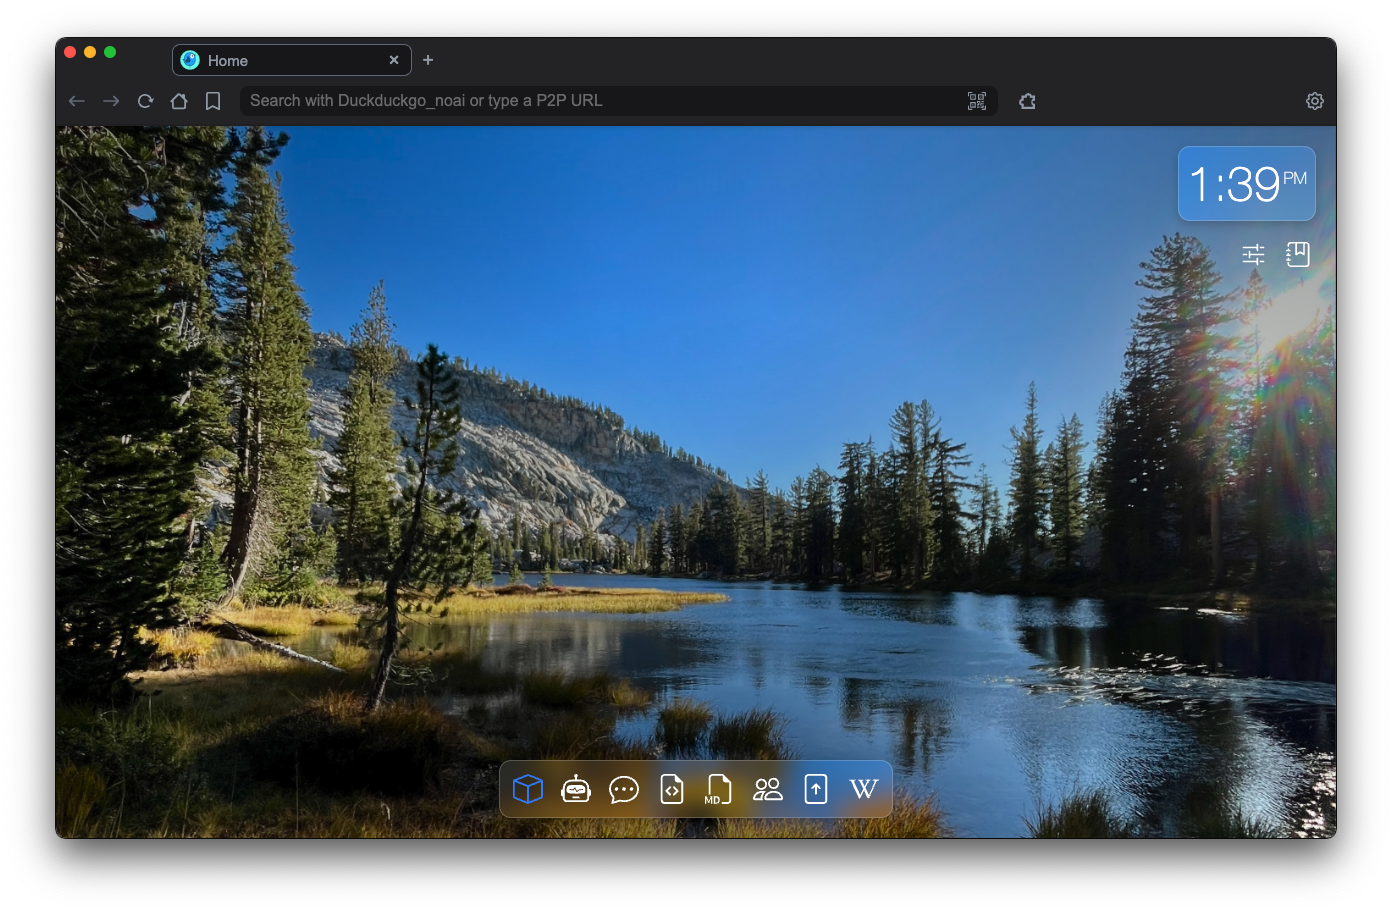
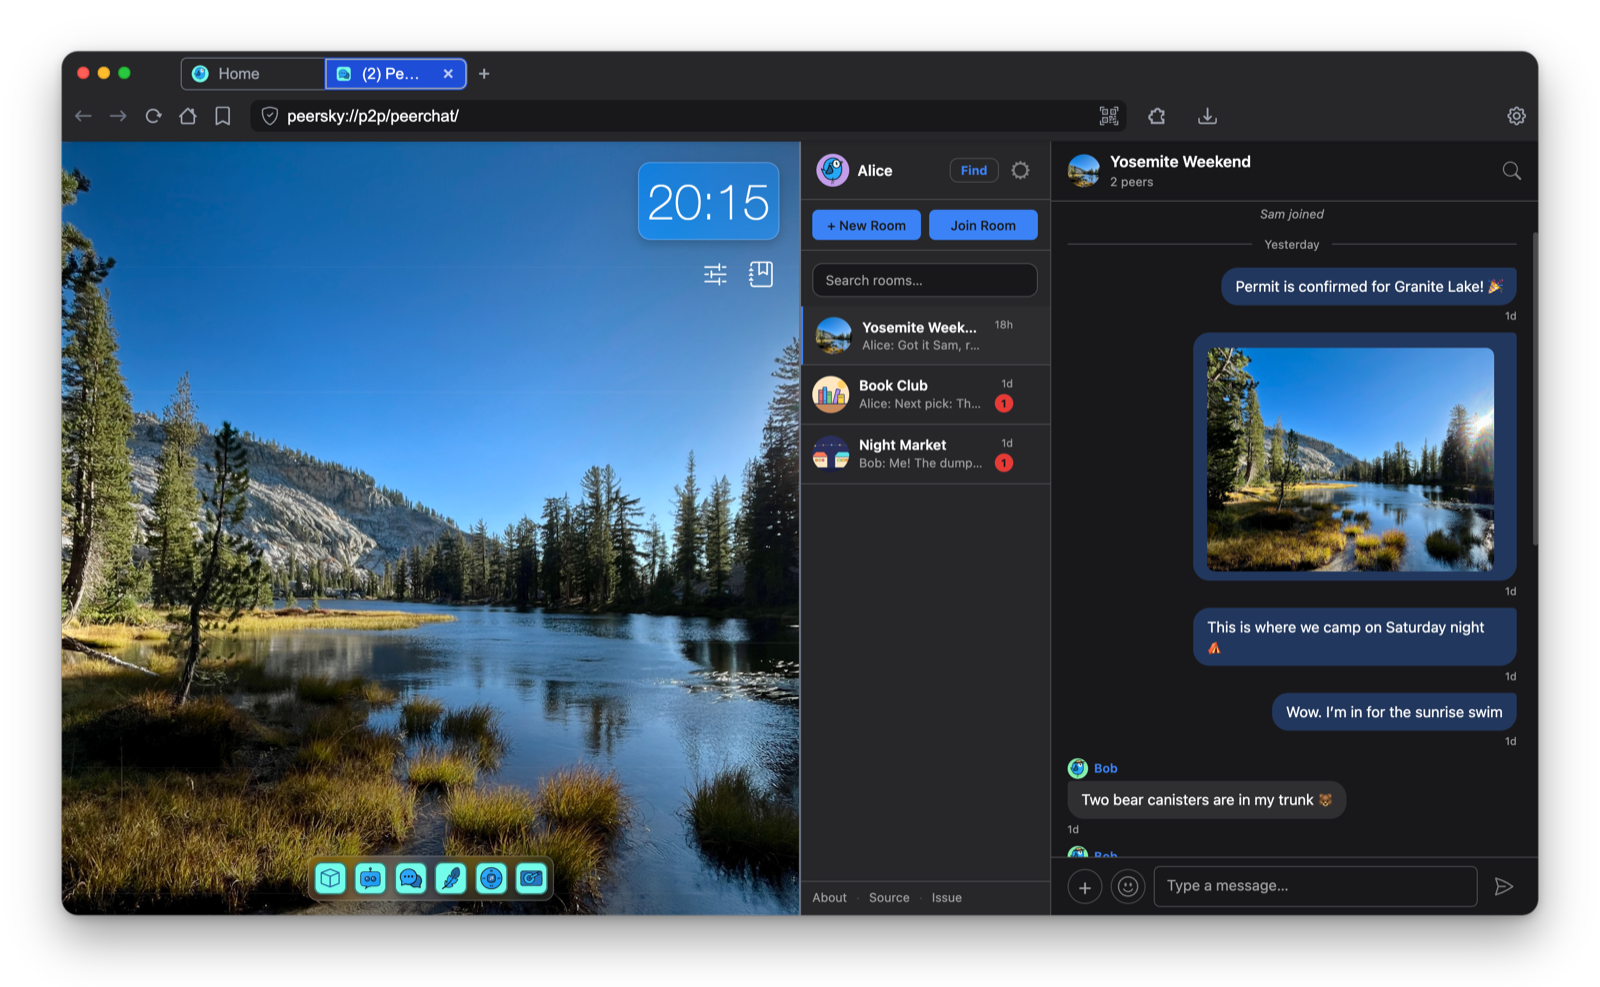
docs: show the home page and PeerChat side by side as the README image

diff --git a/README.md b/README.md
@@ -12,7 +12,7 @@
     <a href="https://mastodon.social/@peersky"><img src="https://img.shields.io/mastodon/follow/113323887574214930" alt="Mastodon Follow"></a>
     <a href="https://deepwiki.com/p2plabsxyz/peersky-browser"><img src="https://img.shields.io/badge/Ask-DeepWiki-blue.svg" alt="Ask DeepWiki"></a>
     <a href="https://standardjs.com"><img src="https://img.shields.io/badge/code_style-standard-brightgreen.svg" alt="JavaScript Style Guide"></a>
-    <img src="/demo.png" width="800" alt="PeerSky Browser home page">
+    <img src="/demo.png" width="800" alt="PeerSky Browser with its home page and PeerChat side by side">
 </div>
 
 💻 [Download](https://peersky.p2plabs.xyz/) 📜 [Docs](./docs/)
